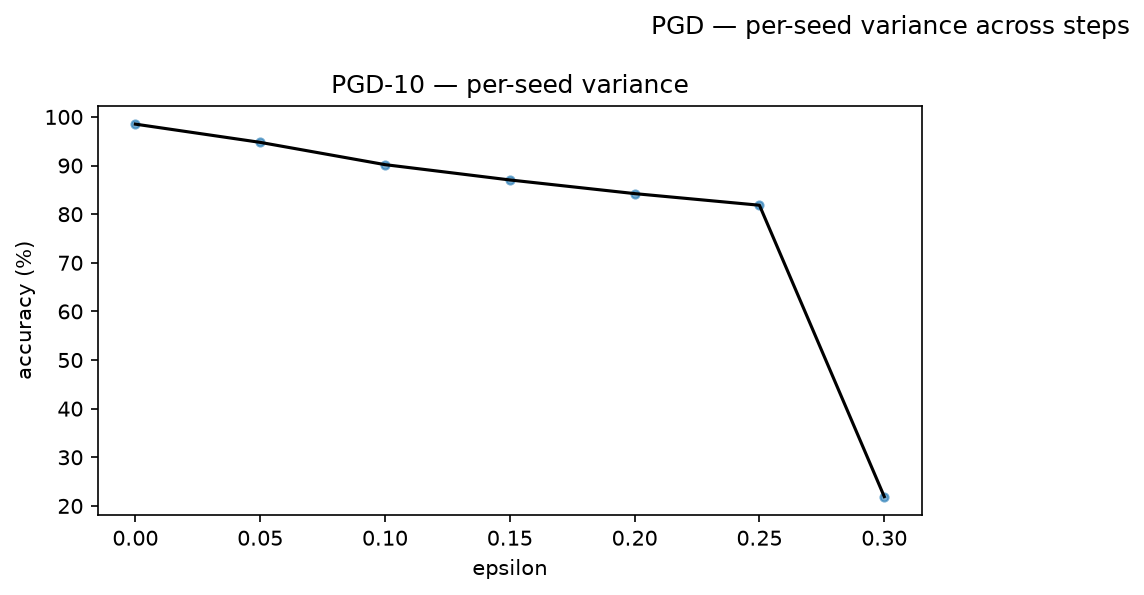
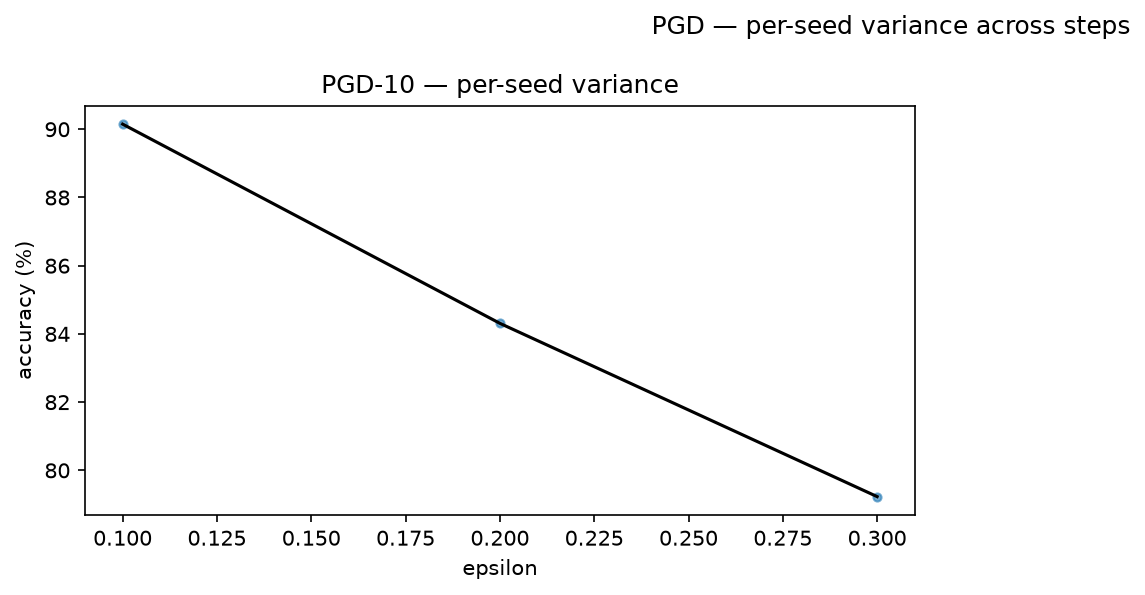
Update dry run

diff --git a/runs/run_defense_eval.py b/runs/run_defense_eval.py
@@ -13,6 +13,9 @@ if args.dry_run:
 else:
     from src.utils.config import NUM_SEEDS, EVAL_ATTACKS, DEFENSES
 
+dry_flag = ["--dry-run"] if args.dry_run else []
+
+
 DEFENSE_EPSILON = 0.2
 
 runner = ExperimentRunner()
@@ -42,7 +45,7 @@ for defense_attack, defense_steps in DEFENSES:
             experiments.append(
                 Experiment(
                     f"def={defense_tag} atk={eval_tag} seed={seed}",
-                    cmd,
+                    cmd + dry_flag,
                 )
             )
 

diff --git a/runs/run_attack_eval.py b/runs/run_attack_eval.py
@@ -13,6 +13,8 @@ if args.dry_run:
 else:
     from src.utils.config import NUM_SEEDS
 
+dry_flag = ["--dry-run"] if args.dry_run else []
+
 runner = ExperimentRunner()
 
 pgd_steps = [10]
@@ -29,7 +31,7 @@ for seed in range(NUM_SEEDS):
                     "--attack", "pgd",
                     "--steps", str(steps),
                     "--seed", str(seed),
-                ],
+                ] + dry_flag,
             )
         )
 

diff --git a/runs/run_training.py b/runs/run_training.py
@@ -14,6 +14,8 @@ if args.dry_run:
 else:
     from src.utils.config import NUM_SEEDS
 
+dry_flag = ["--dry-run"] if args.dry_run else []
+
 
 runner = ExperimentRunner()
 
@@ -26,7 +28,7 @@ for seed in range(NUM_SEEDS):
             [
                 sys.executable, "-m", "src.training.train",
                 "--seed", str(seed)
-            ]
+            ] + dry_flag,
         )
     )
 